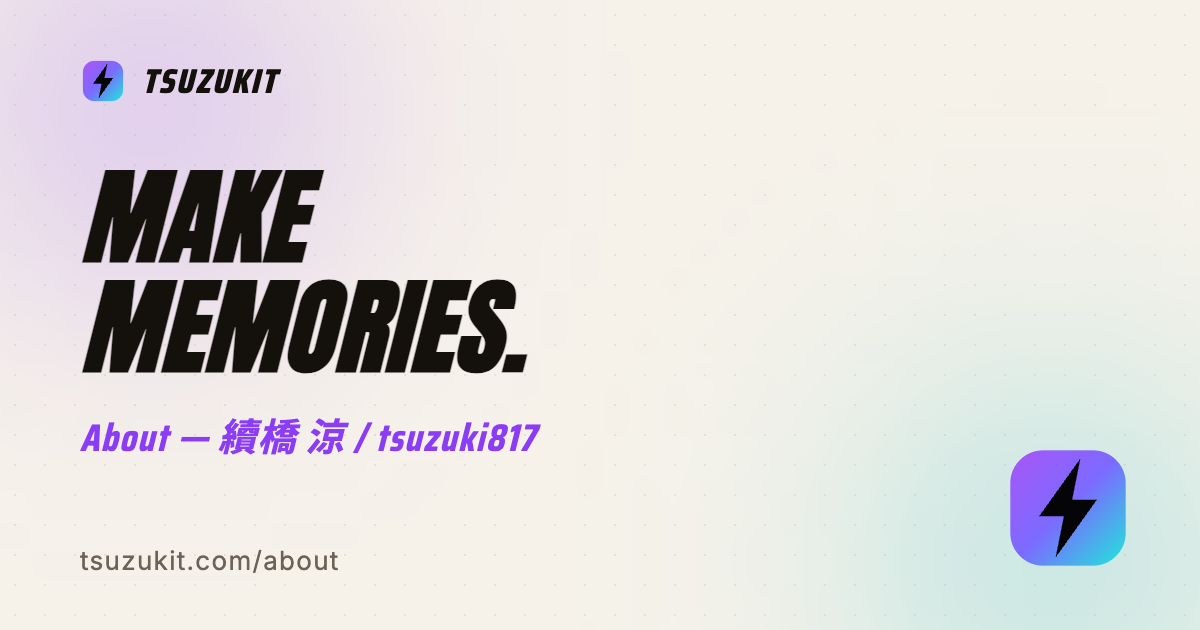
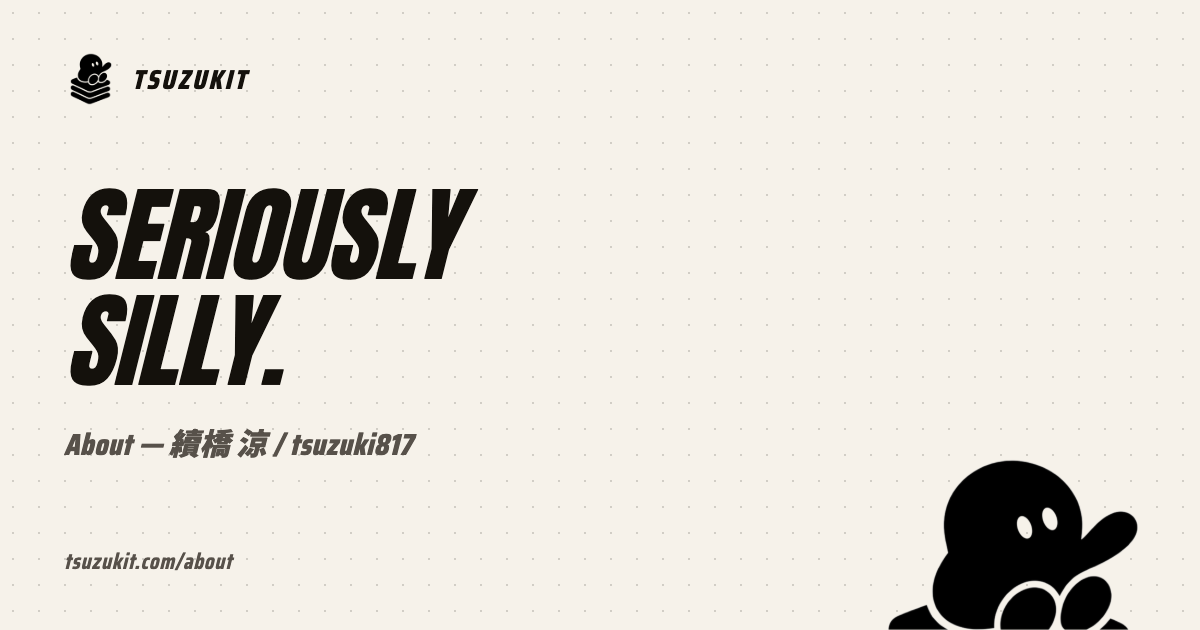
feat: OGP画像を今のデザインで作り直した
15枚すべて旧デザインのままだった。SNSに貼ると、紫グラデと
捨てたはずの雷マーク、それに「思い出×テクノロジー」が出ていた。
portfolio は本数も50 APPSで止まっていた。

- サイト側5枚（home/about/blog/contact/portfolio）は
  docs/ogp-site.html を新しく作って生成。右下からキャラが顔を出す
- 収益公開10枚は docs/income-report/ogp.html をモノクロに直して撮り直し。
  カードの色違いのベタ影と紫シアンのぼかしをやめ、ロゴを積み重ねマークに。
  紫は月のラベルと達成率バーにだけ残した
- 数値は手打ちせず generate_articles.py の MONTHS から取っている

作り直しかたは各テンプレートのコメントとスキルに書いた。

Claude-Session: https://claude.ai/code/session_01XebLwtpwFTyp8AE6GMw49z

diff --git a/docs/ogp-site.html b/docs/ogp-site.html
@@ -1,0 +1,125 @@
+<!DOCTYPE html>
+<html lang="ja">
+<head>
+<meta charset="UTF-8">
+<title>OGP generator - サイト共通</title>
+<!--
+  トップ・About・Blog・Contact・Portfolio のOGP画像を作るテンプレート。
+  Playwrightで 1200x630 のビューポートに合わせてスクリーンショットを撮る。
+
+  パラメータ
+    t1   1行目の見出し
+    t2   2行目の見出し（省略可）
+    sub  見出しの下の一行
+    url  左下に出すURL
+    fs   見出しのフォントサイズ(px)。和文は詰まるので個別に渡す。既定 104
+
+  作り直しかた
+    1. リポジトリのルートで簡易サーバを立てる（python3 -m http.server 8898）
+    2. Playwrightのビューポートを 1200x630 にする
+    3. 下の5ページぶんを開いてスクリーンショットを撮り、assets/images/ogp/ に同名で置く
+
+  各ページに渡す値（2026-09-16時点）
+    home      t1=誰も作らないものを、  t2=まじめに。        sub=iOS Developer & Creator — 續橋 涼   url=tsuzukit.com            fs=92
+    about     t1=SERIOUSLY           t2=SILLY.           sub=About — 續橋 涼 / tsuzuki817       url=tsuzukit.com/about
+    blog      t1=開発の裏側と         t2=数字のぜんぶ       sub=Blog — 個人開発の記録と毎月の収益    url=tsuzukit.com/blog       fs=96
+    contact   t1=CONTACT.                                sub=お仕事の相談、受けつけています        url=tsuzukit.com/contact
+    portfolio t1=74 APPS             t2=ON THE APP STORE  sub=10年間の個人開発 — Portfolio        url=tsuzukit.com/portfolio  fs=88
+
+  アプリ本数が変わったら portfolio の t1 も直すこと。
+-->
+<!--
+  例: /docs/ogp-site.html?t1=%E8%AA%B0%E3%82%82%E4%BD%9C%E3%82%89%E3%81%AA%E3%81%84%E3%82%82%E3%81%AE%E3%82%92%E3%80%81&t2=%E3%81%BE%E3%81%98%E3%82%81%E3%81%AB%E3%80%82&sub=iOS%20Developer%20%26%20Creator%20%E2%80%94%20%E7%B6%9A%E6%A9%8B%20%E6%B6%BC&url=tsuzukit.com&fs=92
+-->
+<link rel="stylesheet" href="https://fonts.googleapis.com/css2?family=Anton&family=Saira+Condensed:wght@600;700;800&family=Noto+Sans+JP:wght@500;700;900&display=swap">
+<style>
+  :root {
+    --bg: #f6f2ea;
+    --ink: #14110c;
+    --muted: #57514a;
+    --font-impact: 'Anton', 'Noto Sans JP', sans-serif;
+    --font-accent: 'Saira Condensed', 'Noto Sans JP', sans-serif;
+    --font-jp: 'Noto Sans JP', sans-serif;
+  }
+  * { margin: 0; padding: 0; box-sizing: border-box; }
+  html, body { width: 1200px; height: 630px; }
+  body {
+    background-color: var(--bg);
+    color: var(--ink);
+    font-family: var(--font-jp);
+    position: relative;
+    overflow: hidden;
+  }
+  .bg-dots {
+    position: absolute; inset: 0;
+    background-image: radial-gradient(rgba(20,17,12,0.16) 1.4px, transparent 1.4px);
+    background-size: 26px 26px;
+  }
+  .frame { position: relative; padding: 52px 64px; height: 100%; display: flex; flex-direction: column; }
+
+  .brand { display: flex; align-items: center; gap: 14px; }
+  .brand img { width: 54px; height: 54px; display: block; }
+  .brand span {
+    font-family: var(--font-accent); font-style: italic; font-weight: 800;
+    font-size: 27px; letter-spacing: 0.10em;
+  }
+
+  .main { flex: 1; display: flex; flex-direction: column; justify-content: center; }
+  .title {
+    font-family: var(--font-impact); font-style: italic;
+    font-size: 104px; line-height: 1.02; letter-spacing: -0.005em;
+  }
+  .title.jp { font-family: var(--font-jp); font-weight: 900; font-style: normal; letter-spacing: -0.02em; }
+  .sub {
+    margin-top: 26px;
+    font-family: var(--font-accent); font-style: italic; font-weight: 800;
+    font-size: 30px; letter-spacing: 0.02em; color: var(--muted);
+  }
+
+  .foot { display: flex; align-items: flex-end; }
+  .site {
+    font-family: var(--font-accent); font-style: italic; font-weight: 700;
+    font-size: 22px; letter-spacing: 0.04em; color: var(--muted);
+  }
+
+  /* 右下から顔を出すやつ。サイト本体のフッターと同じ扱い */
+  .peek {
+    position: absolute; right: 62px; bottom: 0;
+    width: 250px; height: auto; display: block;
+  }
+</style>
+</head>
+<body>
+<div class="bg-dots"></div>
+<div class="frame">
+  <div class="brand">
+    <img src="/assets/images/logo-mark.png" alt="">
+    <span>TSUZUKIT</span>
+  </div>
+
+  <div class="main">
+    <div class="title" id="title"></div>
+    <div class="sub" id="sub"></div>
+  </div>
+
+  <div class="foot">
+    <div class="site" id="site"></div>
+  </div>
+</div>
+<img class="peek" src="/assets/images/character-peek.png" alt="">
+
+<script>
+  const q = new URLSearchParams(location.search);
+  const t1 = q.get('t1') || '';
+  const t2 = q.get('t2') || '';
+  const titleEl = document.getElementById('title');
+  titleEl.innerHTML = t2 ? (t1 + '<br>' + t2) : t1;
+  // 和文は Anton が効かないので、日本語が混じる見出しだけ和文ウェイトに切り替える
+  if (/[ぁ-んァ-ヶ一-龥]/.test(t1 + t2)) titleEl.classList.add('jp');
+  const fs = q.get('fs');
+  if (fs) titleEl.style.fontSize = fs + 'px';
+  document.getElementById('sub').textContent = q.get('sub') || '';
+  document.getElementById('site').textContent = q.get('url') || 'tsuzukit.com';
+</script>
+</body>
+</html>

diff --git a/docs/income-report/ogp.html b/docs/income-report/ogp.html
@@ -14,10 +14,7 @@
   :root {
     --ab-bg: #f6f2ea;
     --ab-ink: #14110c;
-    --ab-purple: #8b3df5;
-    --ab-cyan: #0bb4c4;
-    --ab-pink: #ff3d7f;
-    --ab-yellow: #ffc107;
+    --ab-purple: #8b3df5;   /* サイトで唯一残しているアクセント */
     --font-impact: 'Anton', 'Noto Sans JP', sans-serif;
     --font-accent: 'Saira Condensed', 'Noto Sans JP', sans-serif;
     --font-jp: 'Noto Sans JP', sans-serif;
@@ -31,11 +28,6 @@
     position: relative;
     overflow: hidden;
   }
-  .bg-glow {
-    position: absolute; top: -220px; left: -180px;
-    width: 760px; height: 760px; border-radius: 50%;
-    background: radial-gradient(circle, rgba(139,61,245,0.30) 0%, rgba(11,180,196,0.12) 45%, rgba(246,242,234,0) 70%);
-  }
   .bg-dots {
     position: absolute; inset: 0;
     background-image: radial-gradient(rgba(20,17,12,0.16) 1.4px, transparent 1.4px);
@@ -44,7 +36,7 @@
   .frame { position: relative; padding: 52px 64px; height: 100%; display: flex; flex-direction: column; }
 
   .brand { display: flex; align-items: center; gap: 14px; }
-  .brand img { width: 52px; height: 52px; border-radius: 14px; display: block; }
+  .brand img { width: 54px; height: 54px; display: block; }
   .brand span {
     font-family: var(--font-accent); font-style: italic; font-weight: 800;
     font-size: 27px; letter-spacing: 0.10em;
@@ -67,7 +59,7 @@
   .mom {
     display: inline-flex; align-items: baseline; gap: 10px; margin-top: 16px;
     background: #fff; border: 2px solid var(--ab-ink); border-radius: 999px;
-    box-shadow: 5px 5px 0 var(--ab-yellow); padding: 7px 20px;
+    box-shadow: 5px 5px 0 var(--ab-ink); padding: 7px 20px;
   }
   .mom b { font-family: var(--font-accent); font-style: italic; font-size: 25px; }
   .mom small { font-family: var(--font-jp); font-weight: 700; font-size: 15px; color: #57514a; }
@@ -78,9 +70,7 @@
     background: #fff; border: 2px solid var(--ab-ink); border-radius: 16px;
     padding: 13px 20px; display: flex; align-items: center; justify-content: space-between;
   }
-  .card:nth-child(1) { box-shadow: 6px 6px 0 var(--ab-purple); }
-  .card:nth-child(2) { box-shadow: 6px 6px 0 var(--ab-cyan); }
-  .card:nth-child(3) { box-shadow: 6px 6px 0 var(--ab-pink); }
+  .card { box-shadow: 6px 6px 0 var(--ab-ink); }
   .card em {
     font-family: var(--font-accent); font-style: italic; font-weight: 800;
     font-size: 17px; letter-spacing: 0.06em; color: #57514a; text-transform: uppercase;
@@ -95,11 +85,10 @@
 </style>
 </head>
 <body>
-  <div class="bg-glow"></div>
   <div class="bg-dots"></div>
   <div class="frame">
     <header class="brand">
-      <img src="/assets/icons/apple-touch-icon.png" alt="">
+      <img src="/assets/images/logo-mark.png" alt="">
       <span>TSUZUKIT</span>
       <span class="series">限界個人開発者の月収１０００万円計画</span>
     </header>

diff --git a/.claude/skills/monthly-income-report/SKILL.md b/.claude/skills/monthly-income-report/SKILL.md
@@ -108,6 +108,18 @@ http://localhost:8899/docs/income-report/ogp.html?ym=2026年8月&total=494,888&m
 
 - 金額の桁が増えてもフォントサイズが自動で縮む。前月比なし・Playなしの号にも対応済み
 - 撮る前にビューポートのリサイズを忘れない。号ごとに画像の位置がずれる
+- **渡す数値は `generate_articles.py` の MONTHS から取る。** 手打ちすると記事と画像がずれる:
+
+```python
+import ast, io
+s = io.open("generate_articles.py", encoding="utf-8").read()
+start = s.index("MONTHS = ["); end = s.index("\n]\n", start) + 2
+MONTHS = ast.literal_eval(s[start:end].split("=", 1)[1].strip())
+```
+
+- 全号まとめて撮り直したら、`magick montage ir-*.png -tile 2x5 -geometry 600x315+6+6` で一覧にして目視する
+- デザインはクリーム地に黒。**虹グラデも色違いのベタ影も使わない**（紫だけがサイト唯一のアクセント。月のラベルと達成率バーにだけ乗せる）
+- トップ・About・Blog・Contact・Portfolio のOGPは別テンプレート `docs/ogp-site.html`。各ページに渡す値は同ファイルのコメントにある
 
 ### 6. 手動更新ファイル
 
